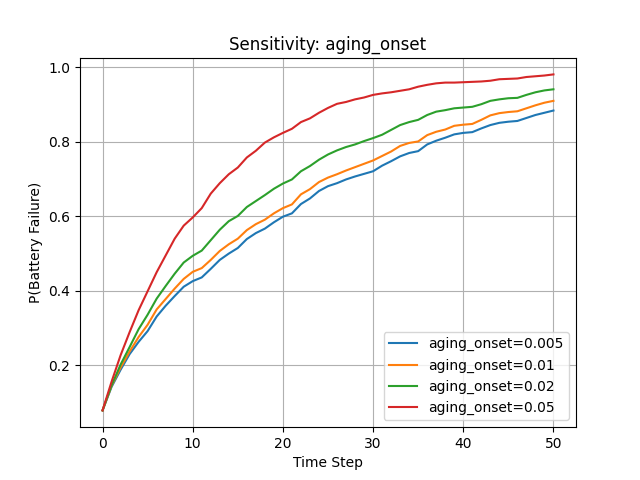
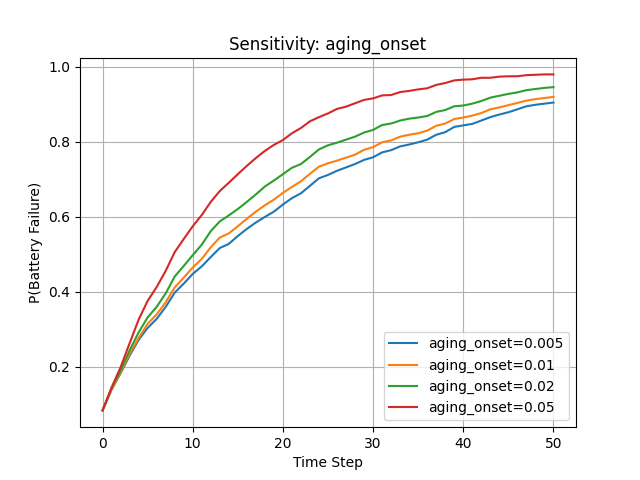
update

Changed region(s): [[0.0625, 0.1562, 0.9062, 0.8438], [0.4062, 0.2188, 0.5312, 0.3125], [0.0625, 0.125, 0.125, 0.1562]]

diff --git a/DBN_battery.py b/DBN_battery.py
@@ -18,7 +18,7 @@ def sample_binary(p_true):
 
 
 IMG_DIR = "img"
-NUM_RUNS = 5000
+NUM_RUNS = 10000
 NUM_STEPS = 50
 SEED = int(time.time()) % 10000
 
@@ -50,8 +50,8 @@ cpd_short_0 = TabularCPD(
 
 cpd_thermal_0 = TabularCPD(
     ("ThermalRunaway", 0), 2,
-    [[0.97, 0.70], #no TR
-     [0.03, 0.30]], #TR
+    [[0.98, 0.75], #no TR
+     [0.02, 0.25]], #TR
     evidence=[("Aging", 0)],
     evidence_card=[2]
 )
@@ -274,7 +274,7 @@ def plot_sensitivity(parameter, values, num_runs=NUM_RUNS, num_steps=NUM_STEPS, 
 if __name__ == "__main__":
     print(f"Using random seed: {SEED}")
     failure_prob = monte_carlo()
-    print(failure_prob)
+    # print(failure_prob)
     plot_failure_curve(failure_prob)
 
     plot_sensitivity(
@@ -285,5 +285,11 @@ if __name__ == "__main__":
     plot_sensitivity(
         "aging_onset",
         values=[0.005, 0.01, 0.02, 0.05],
+        num_runs=1000,
+    )
+
+    plot_sensitivity(
+        "short_given_aging",
+        values=[0.001, 0.02, 0.08, 0.15],
         num_runs=1000,
     )
